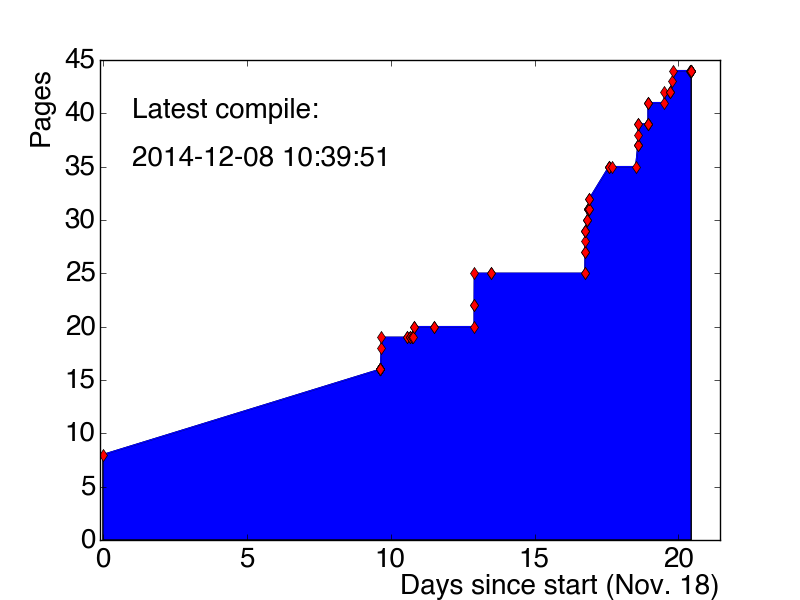
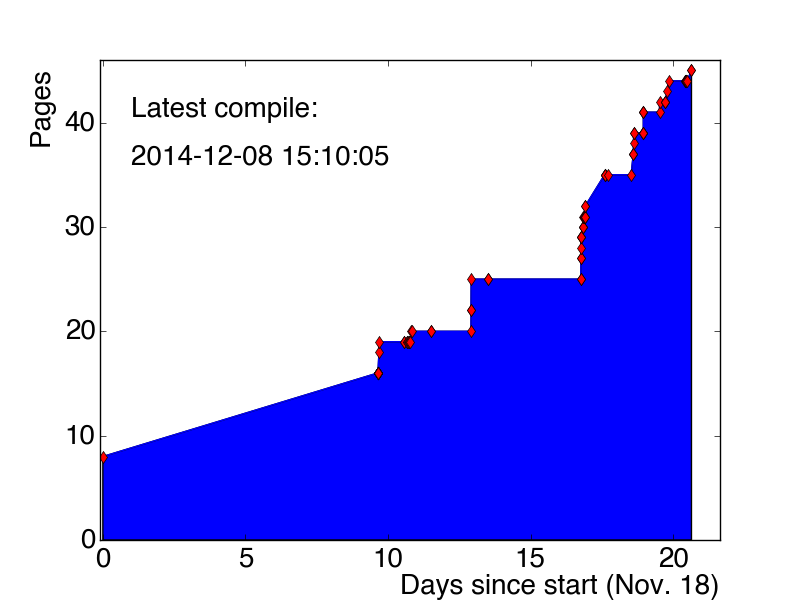
start CR plots

diff --git a/pages.md b/pages.md
@@ -88,3 +88,6 @@
 + [2014-12-08-10h39m22s] 44
 + [2014-12-08-10h39m35s] 44
 + [2014-12-08-10h39m51s] 44
++ [2014-12-08-11h28m00s] 44
++ [2014-12-08-15h09m19s] 45
++ [2014-12-08-15h10m05s] 45
